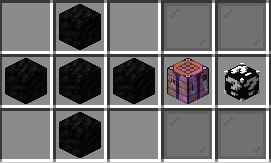
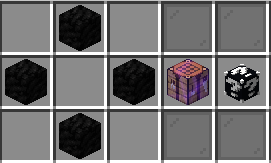
Mise à jour 1.1

diff --git a/dragon.html b/dragon.html
@@ -2,7 +2,7 @@
 <html lang="en">
 <head>
     <meta charset="UTF-8">
-    <title>FAQ PigmanSurvie</title>
+    <title>Dragon PigmanSurvie</title>
     <link rel="shortcut icon" href="Images/logo_pigman.png" />
     <link rel="stylesheet" href="style.css">
 </head>
@@ -13,8 +13,7 @@
         difficile, nous avons maintenant assé tué l'ender dragon pour la majorité des joueurs du serveur pour savoir qu'un full fer et en 
         solo, quand on se debrouille bien au jeu, sufi à en venir à bout. Mais c'est fini, il faudra maintenant venir avec du diamand et des 
         enchantements, en étant à plusieurs, pour pouvoir finir minecraft.</p>
-    <p>Autre précision, il sera difficile de tous ètre là pour le combat contre le dragon, on a donc dessidé de faire réaparaitre le dragon
-         pour ceux qui n'ont pas pu ètre là au début. Mais pour la suite, il faudra utiliser des cristaux de l'ender</p>
+    <p>L'ender ender dragon est prévu pour le ??/05/23 à ?? Heures</p>
     <img src="Images/dragon.jpg" alt="Contacte un admin si tu vois ça xD" width="600px" style="text-align: center;">
 </body>
 </html>

diff --git a/election.html b/election.html
@@ -1,0 +1,22 @@
+<!DOCTYPE html>
+<html lang="en">
+<head>
+    <meta charset="UTF-8">
+    <title>FAQ PigmanSurvie</title>
+    <link rel="shortcut icon" href="Images/logo_pigman.png" />
+    <link rel="stylesheet" href="style.css">
+</head>
+<body>
+    <h1>Les éléctions</h1>
+    <p style="color:red">!! Les élections vont commencer dans ??? !!</p>
+    <p>Tous les candidats doivent DM SkyTryX#4499 avec leur candidature, elle devrait avoir: une présentation, les intentions et le programme.<br>
+        Il est possible que vous soyez demander pour un interview!<br>
+<br>
+        Pour informations, un maire peut devenir dictateur, dans ce cas là, il restera maire tant qu’il ne meurt pas à cause d’un joueur.<br>
+        Un maire normal, qui satisfait ses citoyens ne pourra pas perdre son titre de maire, jusqu’au prochaine élections (tous les 2 semaines).<br>
+<br>
+        Le vote se fera par Discord, avec une vidéo une vidéo youtube résumant les programmes des candidats!<br>
+    </p>
+    <button onclick="window.location.href = 'index.html';" class="retour">&#8592;Retour</button>
+</body>
+</html>

diff --git a/lucky_block.html b/lucky_block.html
@@ -14,7 +14,7 @@
             <li>Gris Clair: craftable avec du Fer</li>
             <li>Jaunes: craftable avec de l'Or</li>
             <li>Bleu Clair: craftable avec du Diamand</li>
-            <li>Gris: craftables avec de la Netherite</li>
+            <li>Gris: craftable avec de la Netherite</li>
         </ol>
         <p>Chaque lucky block est craftable à partir du précédent. Pour crafter un gris, il faudra donc crafter les 4 précédents. Bien évidemment les drops sont de mieux en mieux.</p>
         <h3>Les crafts</h3>
@@ -27,7 +27,8 @@
         <h4>LIGHT_BLUE</h4>
         <img src="Images/light_blue.png" class="img_lucky">
         <h4>GRAY</h4>
-        <img src="Images/gray.png" class="img_lucky">
+        <img src="Images/gray.png" class="img_lucky"><br>
+        <p>Tips: Il est possible de craft du coal en mettant 1 charcoal dans une table de craft!</p>
         <br><button onclick="window.location.href = 'index.html';" class="retour">&#8592;Retour</button>
     </body>
 </html>

diff --git a/index.html b/index.html
@@ -15,8 +15,10 @@
             <button onclick="window.location.href = 'lucky_block.html';" class="pages">Lucky Blocks</button></br>
             <button onclick="window.location.href = 'aurelium_skills.html';" class="pages">Aurelium Skills</button></br>
             <button onclick="window.location.href = 'dragon.html';" class="pages">L'Ender Dragon</button></br>
+            <button onclick="window.location.href = 'election.html';" class="pages">Election</button></br>
+            <button onclick="window.location.href = 'crafts.html';" class="pages">Crafts</button></br>
         </div></br>
         <h4>Site créé par TIMANI et SkyTryX!</h4>
-        <h6>v1.0</h6>
+        <h6>v1.1</h6>
     </body>
 </html>

diff --git a/crafts.html b/crafts.html
@@ -1,0 +1,18 @@
+<!DOCTYPE html>
+<html lang="fr">
+    <head>
+        <meta charset="utf-8">
+		<title>Crafts PigmanGames</title>
+		<link rel="stylesheet" href="style.css">
+        <link rel="shortcut icon" href="Images/logo_pigman.png" />
+    </head>
+    <body>
+        <h2>Crafts</h2>
+        <h3>Il y a 2 crafts uniques existants:</h3>
+        <ol>
+            <li>Block de lumière <br><img src="Images/light.png"></li>
+            <li>Coal <br><img src="Images/coal.png"></li>
+        </ol>
+        <br><button onclick="window.location.href = 'index.html';" class="retour">&#8592;Retour</button>
+    </body>
+</html>
